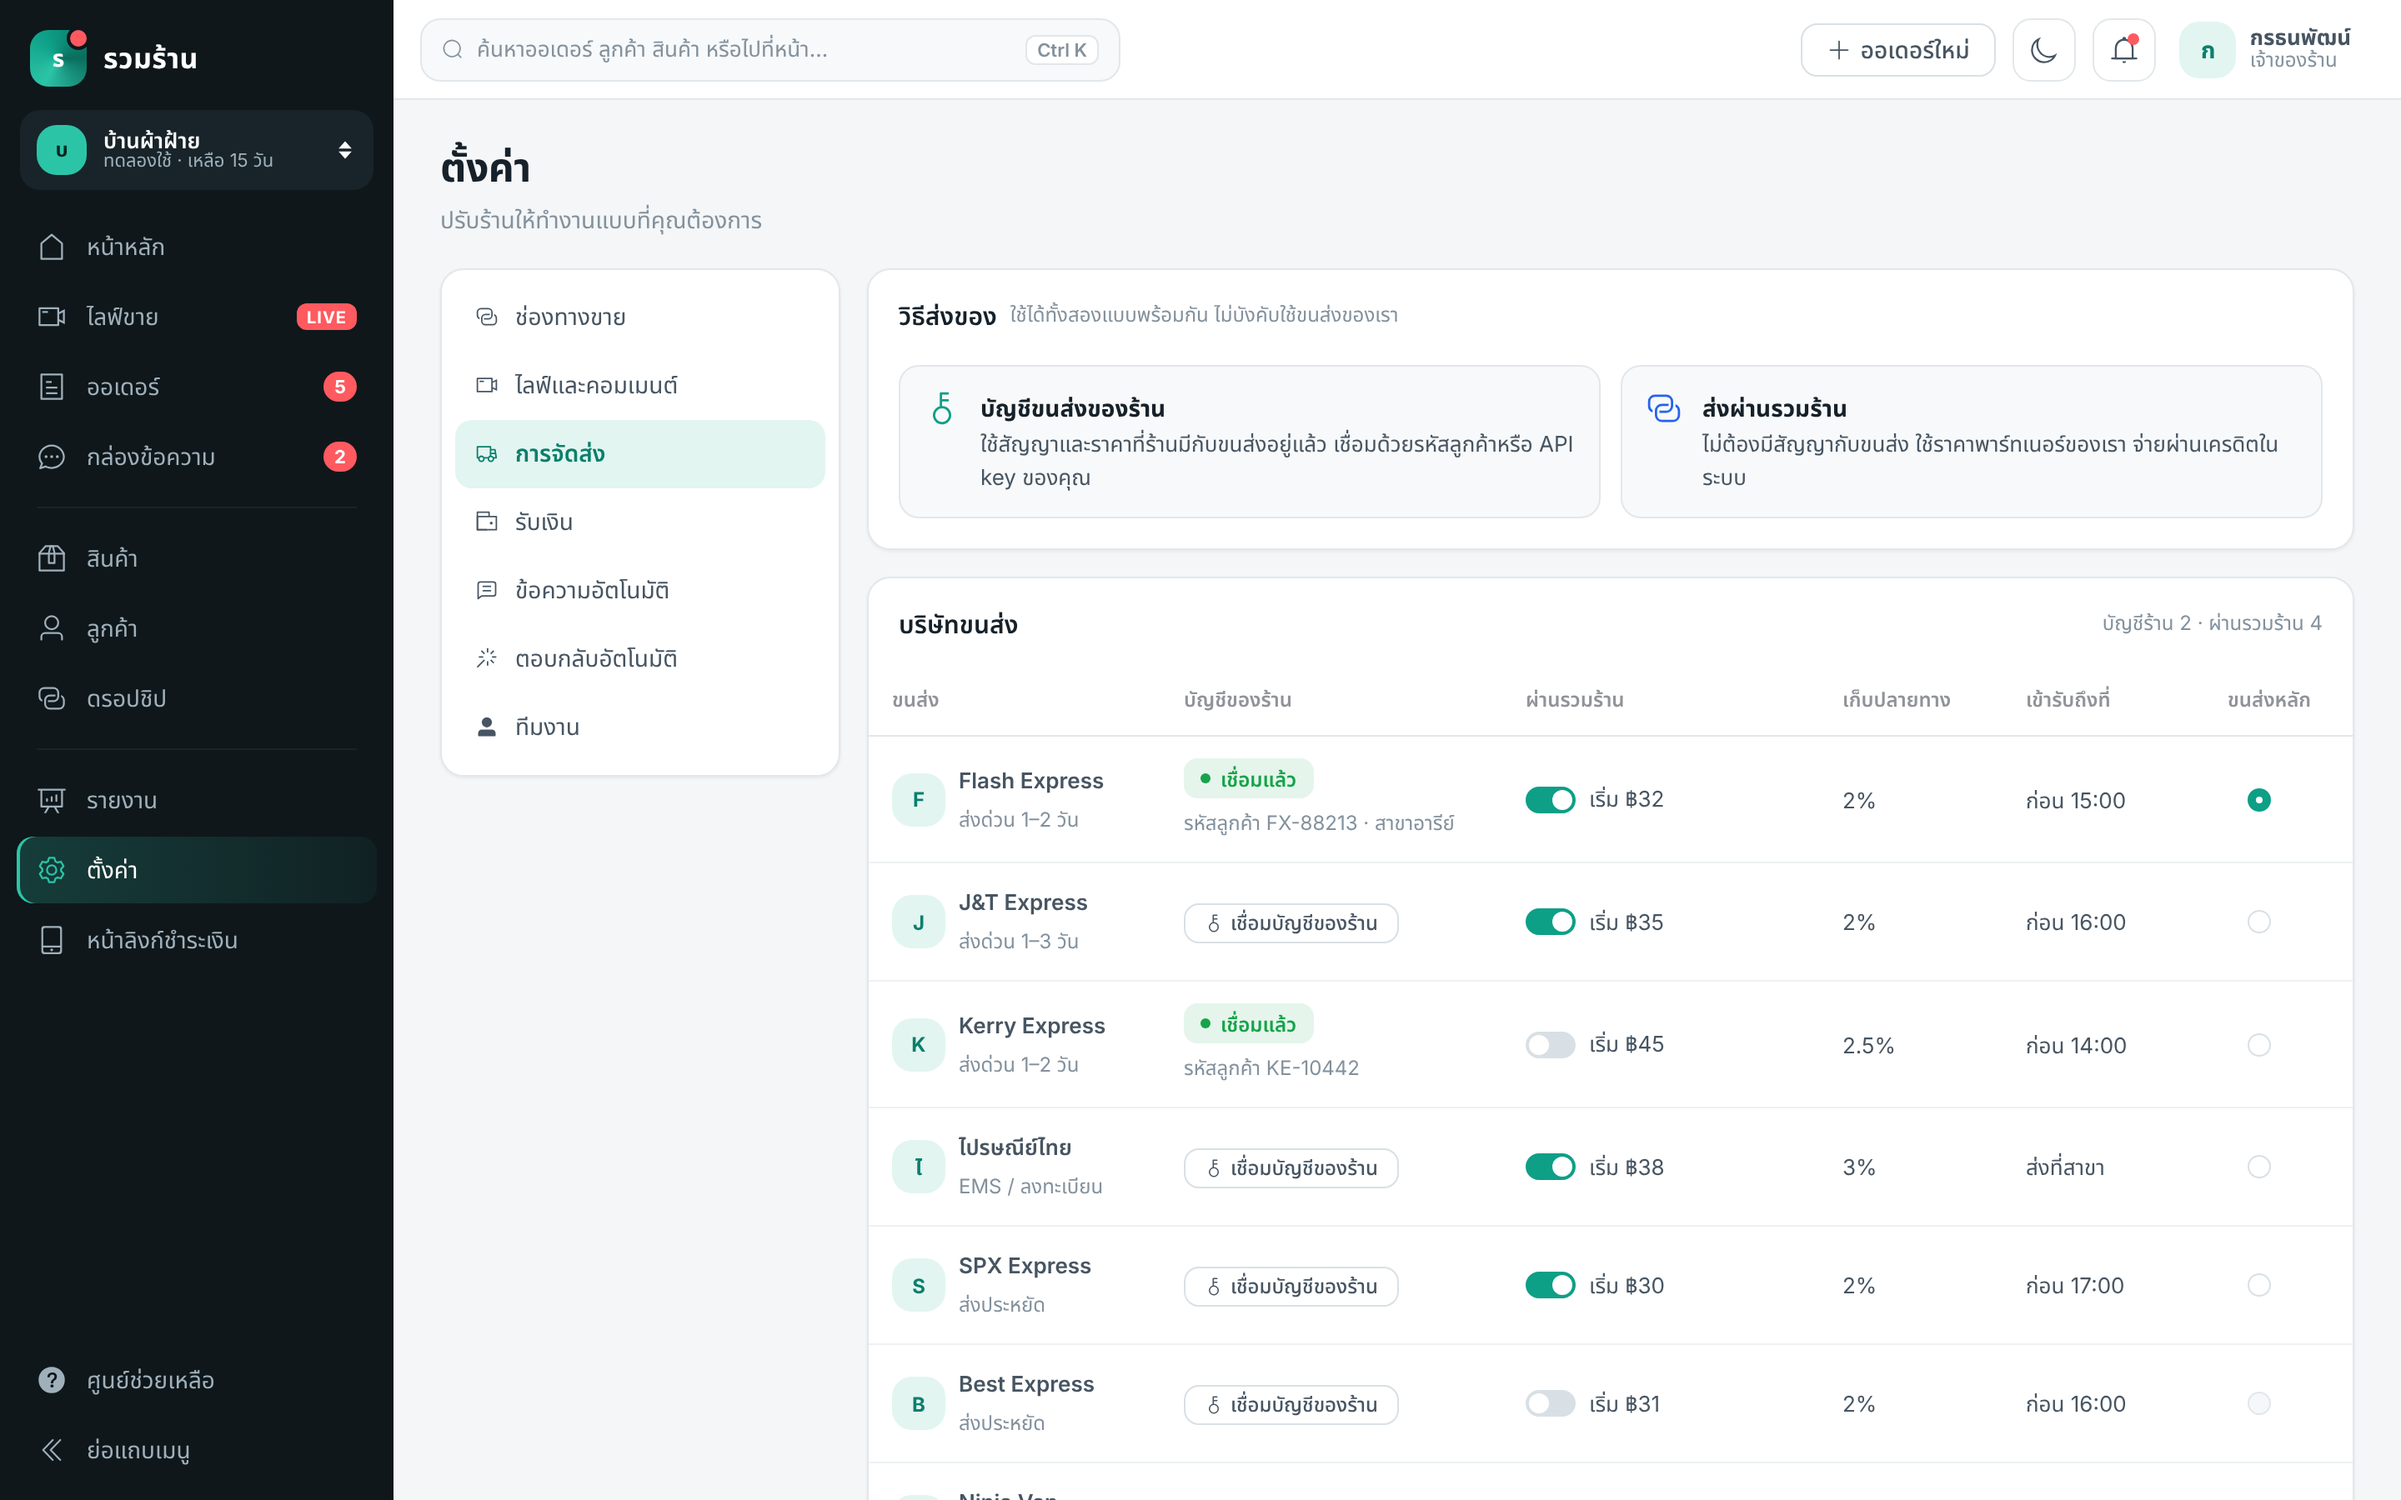
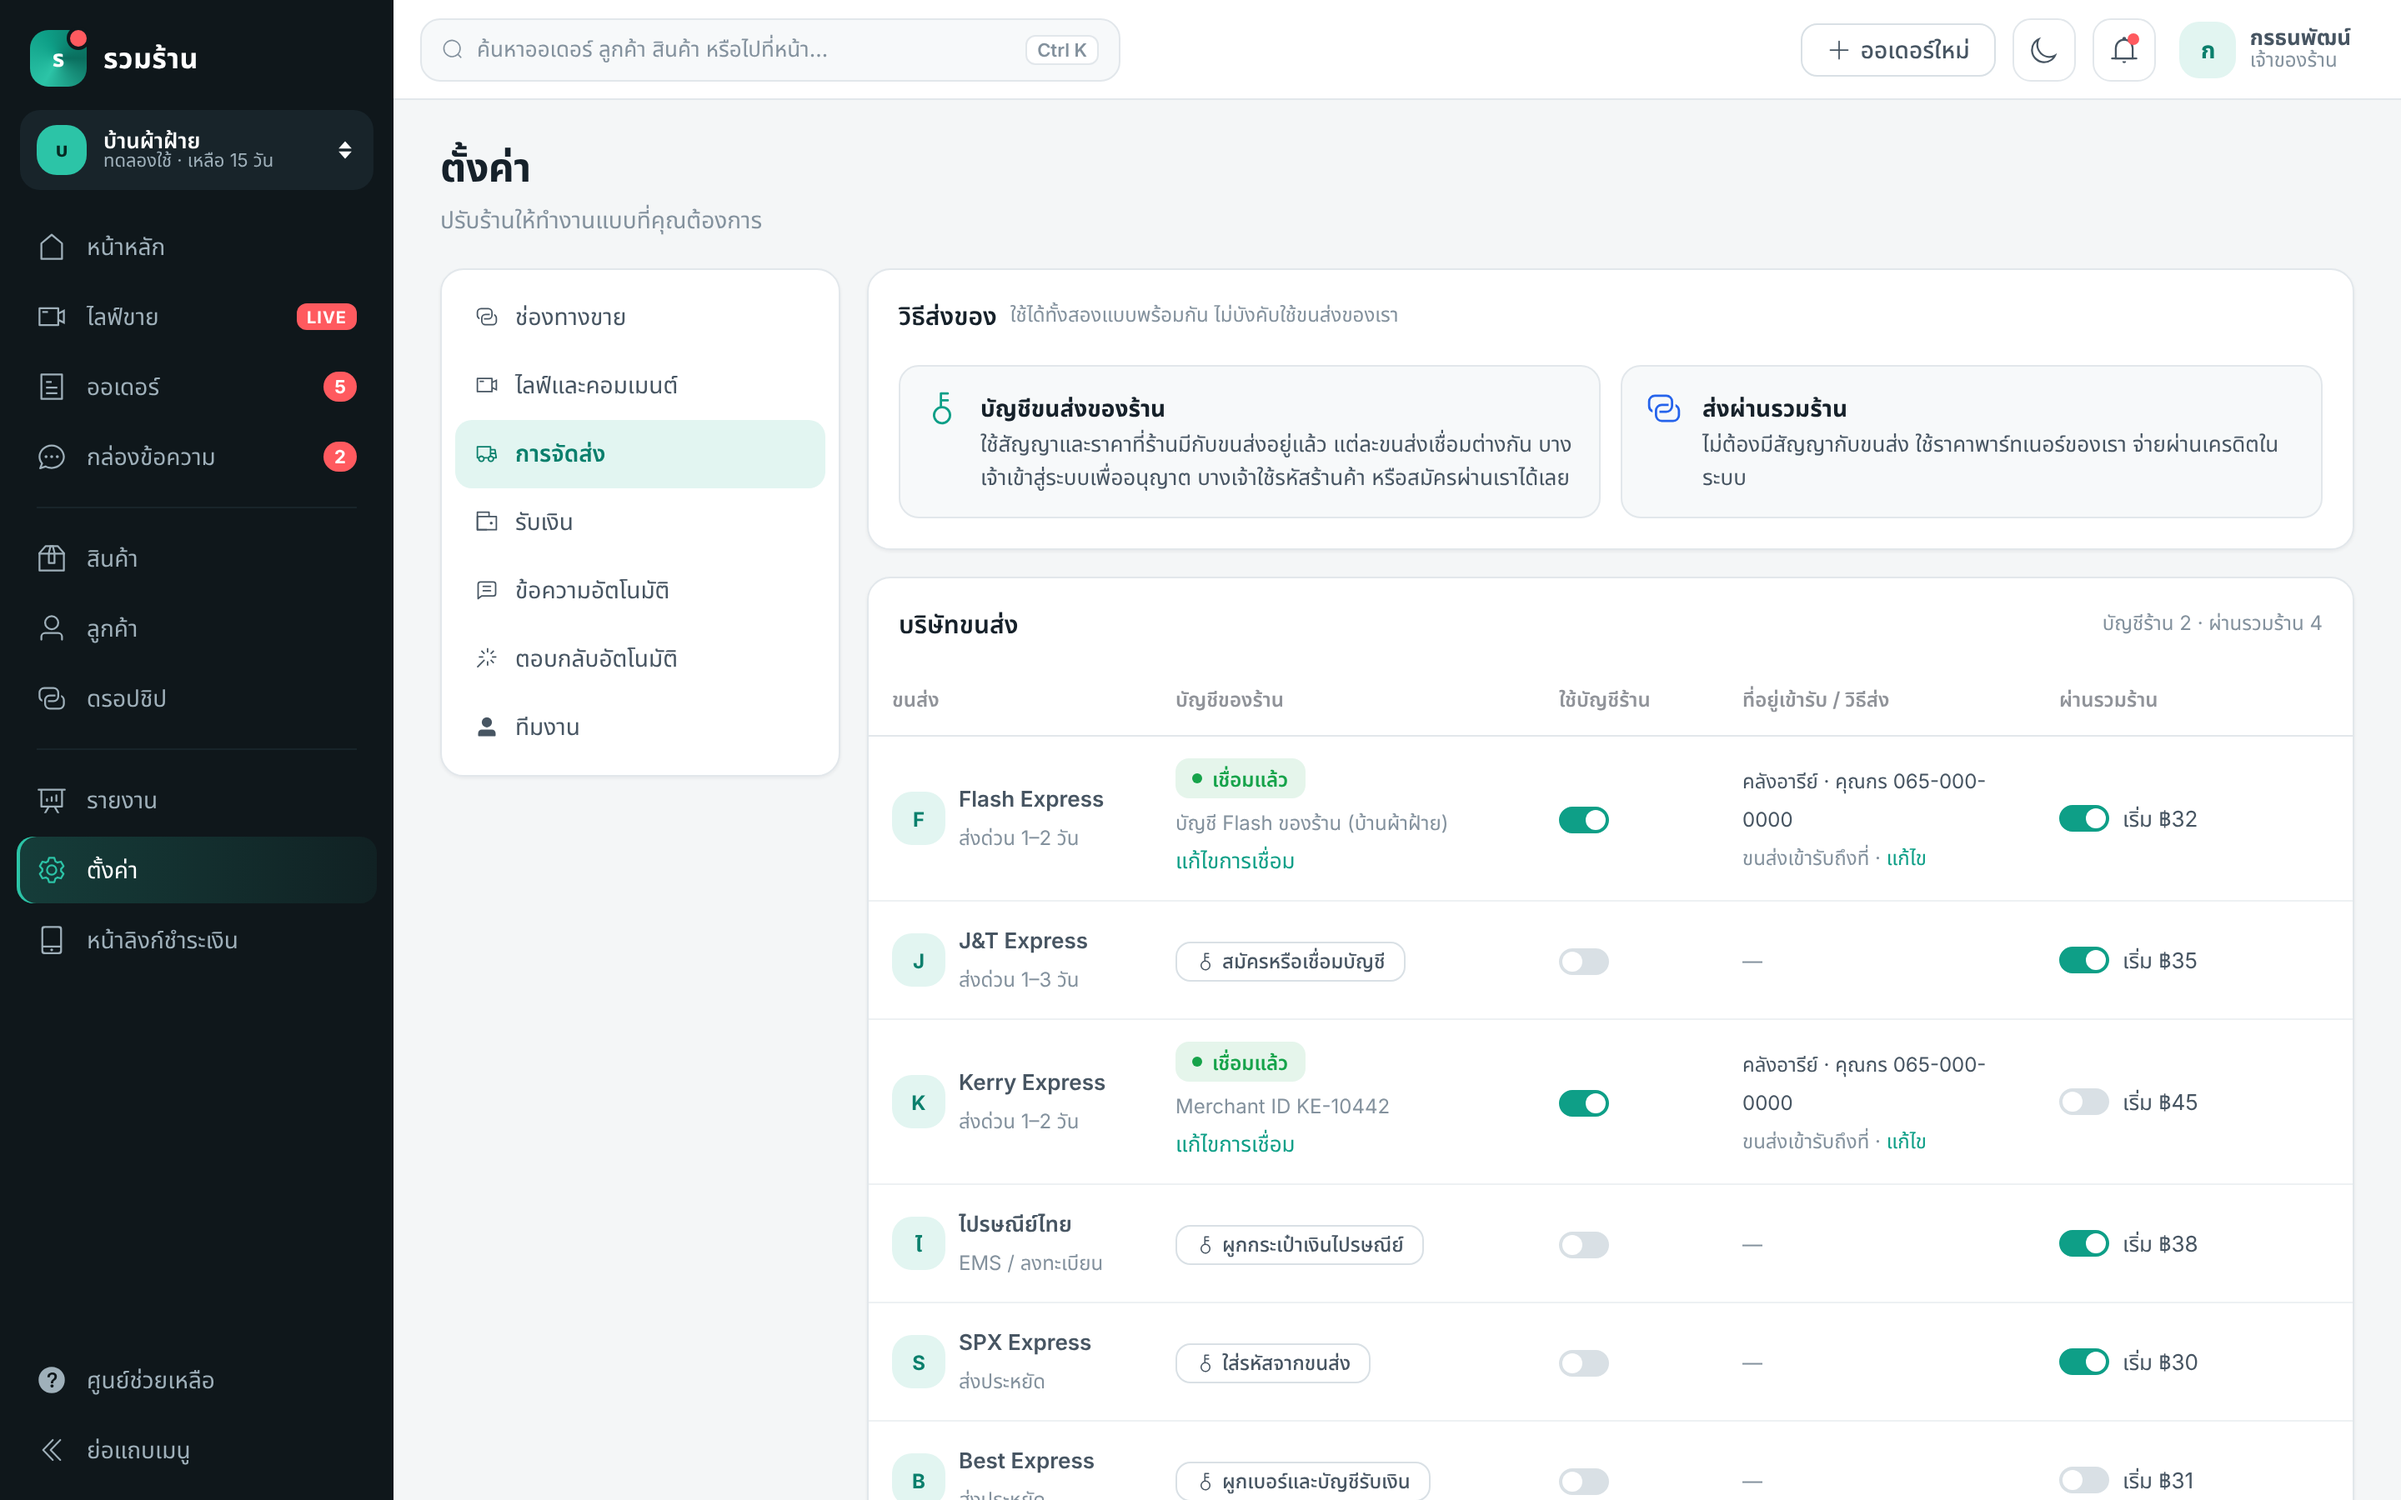
ruamraan: connect each carrier its own way, like the reference flow
Reference study: carriers are pre-integrated; each has its own account
authorization (login/OAuth, register via platform, merchant ID, wallet
phone, user id/secret, client id/key, DHL account, phone + COD bank),
then an enable switch that asks for sender/pickup info.

- Replace the single generic API-key dialog with per-carrier drawers
- Separate 'use shop account' switch and per-carrier pickup address
- Manual carriers (enter tracking yourself)
- Docs: record findings and update shipping sections

Claude-Session: https://claude.ai/code/session_018eVFnvhtTfBwp7WcrVCZJ8

diff --git a/ruamraan/docs/product-overview.md b/ruamraan/docs/product-overview.md
@@ -56,9 +56,32 @@
 | เทคโนโลยี | Vue 3 + Element Plus | ใช้เทคโนโลยีเดียวกัน (มาตรฐานเปิด) แต่ธีม สี ฟอนต์ และส่วนประกอบเป็นของเรา |
 | โครงหน้ารายการ | แท็บสถานะ → ตัวกรอง → ตาราง → ปุ่มทำต่อ | ใช้หลักเดียวกัน แต่ตัวกรองเป็นชิปกด และมีปุ่มหลักที่บอกงานถัดไป |
 | ความละเอียด | ตัวกรอง คำสั่งหลายรายการ ป้าย และส่งออกครบมาก | เก็บความละเอียดครบ (ดูเช็กลิสต์ใน `design-skill/references/screens.md`) แต่จัดเป็นชั้นให้ไม่รก |
-| ขนส่ง | ใช้ขนส่งของแพลตฟอร์มหรือขนส่งที่เชื่อมไว้ | **ต่างจากเขา:** เปิด API ให้ขนส่งทุกเจ้าเข้ามาเป็นพาร์ทเนอร์ และร้านใช้บัญชีของตัวเองได้ |
+| ขนส่ง | รายชื่อขนส่งที่ระบบเชื่อมไว้ให้แล้ว แต่ละเจ้ามีปุ่ม "อนุญาตบัญชี" ที่ต่างกันตามขนส่ง (ดูส่วนที่ 2.1) แล้วเปิดสวิตช์ใช้งานพร้อมกรอกที่อยู่ผู้ส่ง · ใช้บัญชีของร้านเองเท่านั้น | ทำแบบเดียวกัน (เชื่อมแยกตามแบบของแต่ละขนส่ง + ที่อยู่เข้ารับแยกต่อขนส่ง + ขนส่งที่กรอกเลขพัสดุเอง) **และเพิ่ม** "ส่งผ่านรวมร้าน" ด้วยราคาพาร์ทเนอร์ กับ API ให้ขนส่งรายใหม่เชื่อมเข้ามาเอง |
 | กลุ่มผู้ใช้ | ออกแบบแบบ ERP สำหรับผู้ใช้ทั่วไป | **ต่างจากเขา:** ออกแบบให้แม่ค้าไลฟ์ไทยที่ไม่เคยใช้ ERP ใช้ได้ทันที |
 | ภาษา | แปลมาจากภาษาอื่น บางคำไม่เป็นธรรมชาติ | เขียนภาษาไทยเองทั้งหมด |
+
+### 2.1 ผลสำรวจหน้าเชื่อมขนส่งของเว็บตัวอย่าง (17 พ.ย. 2026)
+
+**ขั้นตอนของเขา:**
+1. หน้ารายการขนส่ง: โลโก้ · ชื่อ · สวิตช์เปิดใช้ · ปุ่มอนุญาตบัญชี
+2. กดอนุญาตบัญชี → แผงด้านข้างที่ช่องกรอก **ไม่เหมือนกันในแต่ละขนส่ง**
+3. เปิดสวิตช์ → แผงกรอกข้อมูลผู้ส่ง (ที่อยู่ ผู้ติดต่อแบบตั้งเองหรือใช้ชื่อเพจ เบอร์ รหัสไปรษณีย์)
+4. มีแท็บกฎค่าส่งแยกต่างหาก และมีขนส่งที่ร้านเพิ่มเอง
+
+**ไม่มี:** ช่องกรอก API key แบบเดียวใช้ทุกเจ้า และไม่มีการส่งผ่านบัญชีของแพลตฟอร์ม
+
+| ขนส่ง | วิธีเชื่อมในเว็บตัวอย่าง | ของเรามีหรือยัง |
+|---|---|---|
+| Flash | เข้าสู่ระบบ Flash เพื่ออนุญาต แล้วกลับมายืนยัน | ✅ มีแล้ว |
+| J&T | สมัครผ่านระบบด้วยข้อมูลผู้ส่ง (ลูกค้าทั่วไป) หรือใช้บัญชี VIP | ✅ มีแล้ว |
+| Kerry | Merchant ID ที่ได้ตอนเปิดบัญชีที่สาขา | ✅ มีแล้ว |
+| ไปรษณีย์ไทย | เบอร์โทรที่ผูกกระเป๋าเงิน + ตรวจสิทธิ์ COD | ✅ มีแล้ว |
+| SPX | User ID + User Secret ขอจากฝ่ายบริการลูกค้า + เข้ารับ / ส่งที่สาขา | ✅ มีแล้ว |
+| Best | เบอร์ผูกบัญชี + เข้ารับ / ส่งที่สาขา + บัญชีธนาคารรับเงิน COD | ✅ มีแล้ว |
+| Ninja Van | Client ID + Key + เข้ารับ / ส่งที่สาขา + ช่วงเวลาเข้ารับ + ตรวจสอบสิทธิ์ | ✅ มีแล้ว |
+| DHL | Client ID · รหัสผ่าน · บัญชีเข้ารับ · บัญชีผู้ซื้อบริการ · ประเภทบริการ · ประกัน + ตรวจสอบสิทธิ์ | ✅ มีแล้ว |
+| ขนส่งที่ร้านเพิ่มเอง | ไม่ต้องอนุญาต | ✅ มีแล้ว ("ขนส่งอื่นที่ไม่ได้เชื่อมระบบ" กรอกเลขพัสดุเอง) |
+| ส่งผ่านแพลตฟอร์ม | ไม่มี | ➕ ของเราเพิ่ม: "ส่งผ่านรวมร้าน" (ระยะ 2) |
 
 ---
 

diff --git a/ruamraan/docs/facebook-live-oms-mvp.md b/ruamraan/docs/facebook-live-oms-mvp.md
@@ -154,7 +154,7 @@
 |---|---|---|
 | สัญญา | ร้านมีสัญญากับขนส่งเอง | ไม่ต้องมี ใช้สัญญาพาร์ทเนอร์ของรวมร้าน |
 | ราคา | ตามสัญญาของร้าน | ราคาพาร์ทเนอร์ที่รวมร้านตกลงไว้ |
-| เชื่อมอย่างไร | กรอกรหัสลูกค้า / API key ของร้าน | เปิดสวิตช์ใช้ได้ทันที |
+| เชื่อมอย่างไร | แยกตามแบบของแต่ละขนส่ง: เข้าสู่ระบบเพื่ออนุญาต (Flash) · สมัครผ่านรวมร้าน (J&T) · Merchant ID (Kerry) · กระเป๋าเงิน (ไปรษณีย์ไทย) · User ID/Secret (SPX) · Client ID/Key (Ninja) · บัญชี DHL · เบอร์ + บัญชีรับ COD (Best) จากนั้นกรอกที่อยู่เข้ารับแล้วเปิดสวิตช์ | เปิดสวิตช์ใช้ได้ทันที |
 | เก็บเงินค่าส่ง | ขนส่งเรียกเก็บจากร้านโดยตรง | หักจากเครดิตค่าส่งในระบบ |
 | เงิน COD | โอนเข้าบัญชีร้านตามสัญญาขนส่ง | ขนส่งโอนให้รวมร้าน แล้วรวมร้านโอนต่อให้ร้าน (ต้องมีรอบโอนและรายงานกระทบยอด) |
 
